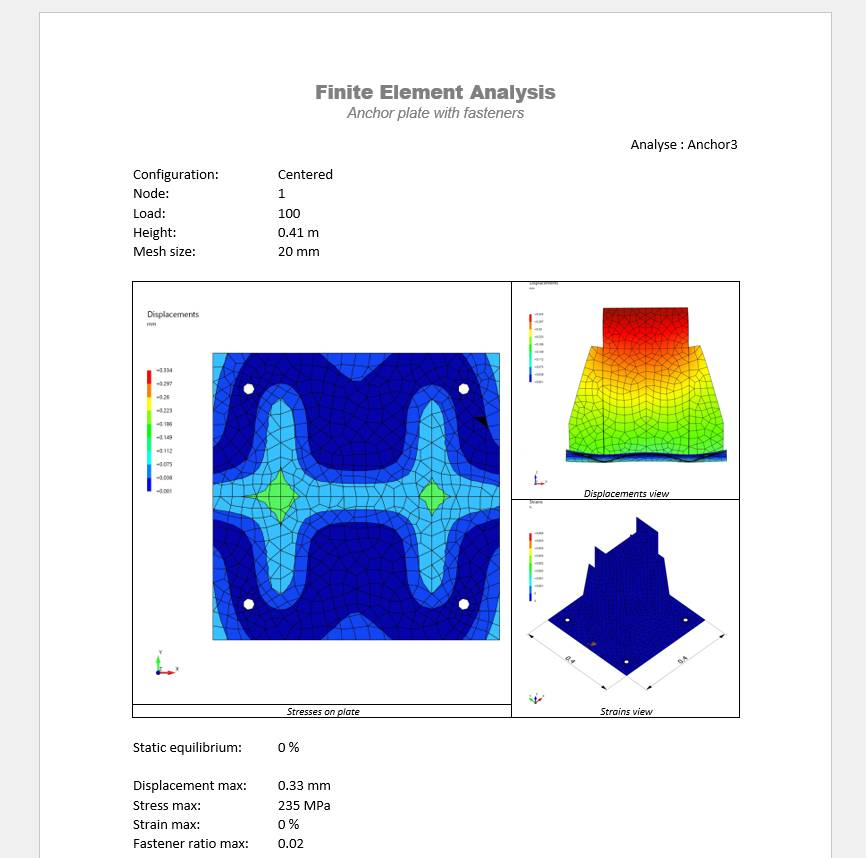
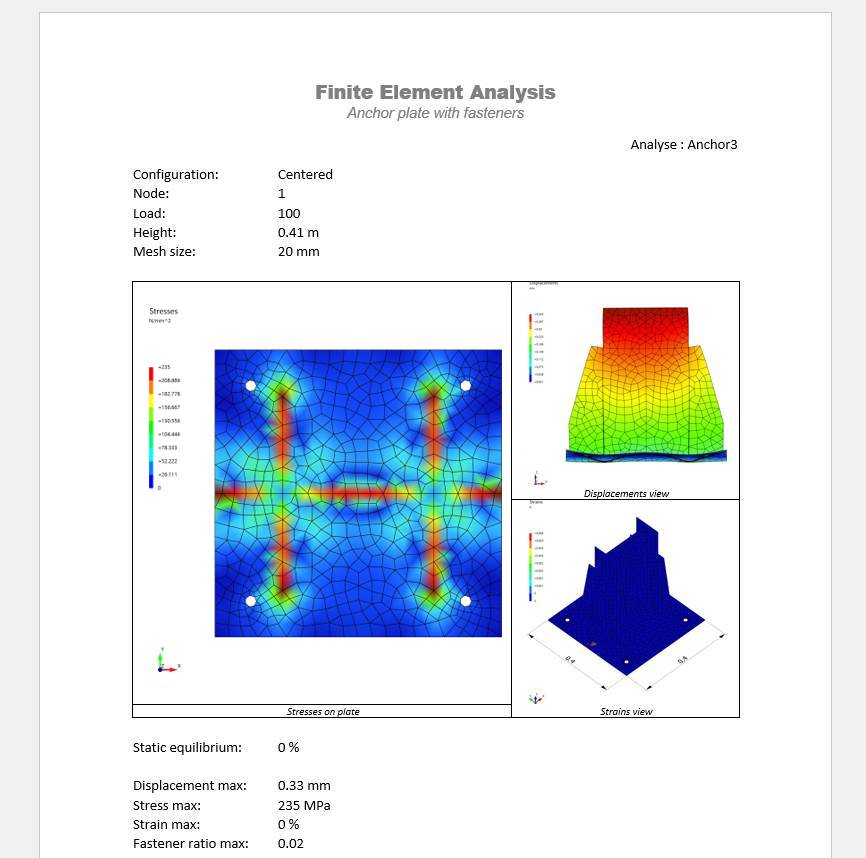
FEA anchor plate

Changed region(s): [[0.1559, 0.3939, 0.5924, 0.7576], [0.1559, 0.7576, 0.2182, 0.7879], [0.1559, 0.3636, 0.2182, 0.3939]]

diff --git a/Analysis/FEA/AnchorPlate.md b/Analysis/FEA/AnchorPlate.md
@@ -5,4 +5,168 @@ nav_order: 1
 parent: Finite Element Analysis
 ---
 
-# Anchor plate analysis
+# Anchor Plate Analysis
+
+MetaStructure proposes a detailed analysis of anchor plate and its fasteners.
+
+![Image](../../Images/FEA6.jpg)
+
+Click [here](https://documentation.metapiping.com/Structure/Elements/Restraint.html#2-anchor-plate) for more information about the anchor plate definition.
+
+## 1. Structure analysis
+
+After structure analysis, the anchor plates of the structure can be examined.
+
+![Image](../../Images/FEA2.jpg)
+
+* Select a load case or mode (1).
+* Select the **anchor plate** button (2).
+* Select either an anchor plate in the 3D space or in the results table (3).
+* Click on the **Analysis** button (4).
+
+The **selection mode** is automatically set to **Restraint** when clicking on **anchor plate** button.
+
+If other analysis exists for the same **Restraint** and the same **Load**, a window will appear :
+
+![Image](../../Images/FEA3.jpg)
+
+* Select **New analysis** to start a new analysis from scratch.
+* Or select an existing analysis to reopen it :
+
+![Image](../../Images/FEA4.jpg)
+
+Some properties and results are shown.
+
+Click OK.
+
+## 2. New analysis
+
+If you choose to create a **New analysis**, you have to define a name to the analysis (that doesn't already exist) :
+
+![Image](../../Images/FEA5.jpg)
+
+The **Finite Element Analysis Window** appears :
+
+MetaStructure automatically transforms the actual plate, anchor positions, stiffeners and a part of the beam to surfacing elements (on neutral fiber).
+
+These surfaces are grouping by types, thicknesses and materials :
+
+![Image](../../Images/FEA7.jpg)
+
+The window is divided into 3 areas :
+
+* A : Definition of the assembly, mesh, results and report
+* B : Model 3D
+* C : Groups of elements with same properties (type, thickness, material)
+
+The first area contains 4 properties :
+
+![Image](../../Images/FEA8.jpg)
+
+* A1 : The node of the anchor plate (restraint) and the current load
+* A2 : The configuration
+* A3 : The total height of the assembly. Click on **v** button to modify.
+* A4 : The desired mesh size. Click on **v** button to **generate the meshing**.
+
+> If the **anchor plate** has a non-zero value for the **Tolerance** property of its fasteners, 2 other configurations will be added in the list representing extreme positions of fasteners.
+
+![Image](../../Images/FEA9.jpg)
+
+Click [here](https://documentation.metapiping.com/Structure/Elements/Restraint.html#22-fastener-definition) for more information about the fastener definition.
+
+## 3. Meshing
+
+Choose a **mesh size** and click on **v** button (1) :
+
+![Image](../../Images/FEA10.jpg)
+
+After several seconds, the assembly is totally meshed (2).
+
+All groups appears on the right (3). You can show/hide each group for a better visualization.
+
+The **Code_Aster** button is now available for a complete calculation.
+
+## 4. Finite element analysis
+
+Click on the **Code_Aster** button to launch a detailed calculation (1) :
+
+![Image](../../Images/FEA11.jpg)
+
+Colored results appears (2) with a corresponding legend.
+
+A result panel appears where the type of results can be choose and some informations are shown (3).
+
+You can show/hide each group for a better visualization (4).
+
+Type of results :
+
+| Property | Unit Metric | Unit USA | Remark |
+| -------- | ---- | ---- | ---- |
+| Groups | - | - | |
+| Displacements | mm | in | Use **Factor** to amplify the deformation |
+| Stresses | N/mm² | ksi | |
+| Strains | % | % | |
+| Compressions | N/mm² | ksi | Only on plate |
+| Iso-displacements | mm | in | Use **Factor** to amplify the deformation |
+| Iso-stresses | N/mm² | ksi | |
+| Iso-Strains | % | % | |
+| Iso-Compressions | N/mm² | ksi | Only on plate |
+
+Example of the deformation of the plate (with factor = 128) :
+
+![Image](../../Images/FEA20.jpg)
+
+Change for example the type to **Stresses** :
+
+![Image](../../Images/FEA12.jpg)
+
+![Image](../../Images/FEA13.jpg)
+
+The **Static equilibrium** is also evaluated (value near 0 reaches the perfect equilibrium).
+
+    Static Equilibrium refers to the physical state in which a system is at rest and the net force acting on it is null. It is a state in which all the forces acting on an object are balanced out and the object is not found to be in motion to the relative plane.
+
+The **Fastener ratio max** indicates the max value of all ratios of all fasteners of the plate (must be < 1).
+
+Click on the **Open** button to show a summary report of the **fasteners'** results :
+
+![Image](../../Images/FEA14.jpg)
+
+Each fastener is deeply examined according to the current **standard**.
+
+## 5. Report
+
+A report can be generated based on a template and "*tables*" file.
+
+![Image](../../Images/FEA16.jpg)
+
+* Select a template (**open** button) or edit template (**pencil** button) (1).
+* Select a *tables* file (**open** button) (2).
+* Click on the **Report** button to generate the report (3).
+
+> The template is copy from the settings to the analysis' directory and can be locally modified before report generation (requires Microsoft Word).
+
+The **select document window** (example for table) :
+
+![Image](../../Images/FEA15.jpg)
+
+* Select the document (1)
+* Click OK (2)
+
+After generation, the report receive the name of the analysis. 
+
+You can **edit** the final report by clicking on the **pencil** button (requires Microsoft Word) (1) :
+
+![Image](../../Images/FEA17.jpg)
+
+![Image](../../Images/FEA18.jpg)
+
+## 6. Conclusion
+
+The analysis is terminated.
+
+You can keep this analysis on disk by closing the window and answer **Yes** to the question :
+
+![Image](../../Images/FEA19.jpg)
+
+This analysis will be proposed on the window of §1 for the same anchor plate (node) and load.

diff --git a/Analysis/FEA/index.md b/Analysis/FEA/index.md
@@ -9,3 +9,25 @@ has_children: true
 # Finite Element Analysis
 
 ![Image](../../Images/FEA0.jpg)
+
+**MetaPiping/MetaStructure** proposes detailed **finite element analysis** of part of piping system or structure.
+
+The selected assembly is meshed with shell or brick element depending on the assembly type.
+
+Loads are then applied on the resulting mesh and the boundary conditions are defined.
+
+The solution is calculated with our native **Code_Aster** solver.
+
+A diagnostic is shown depending on the assembly type.
+
+A report can finally be generated.
+
+## 1. Analysis
+
+The **Finite Element Analysis** button is available at the end of the Analysis ribbon :
+
+![Image](../../Images/FEA1.jpg)
+
+The button is only accessible for certain selected element.
+
+The possible analysis are listed in the menu.
